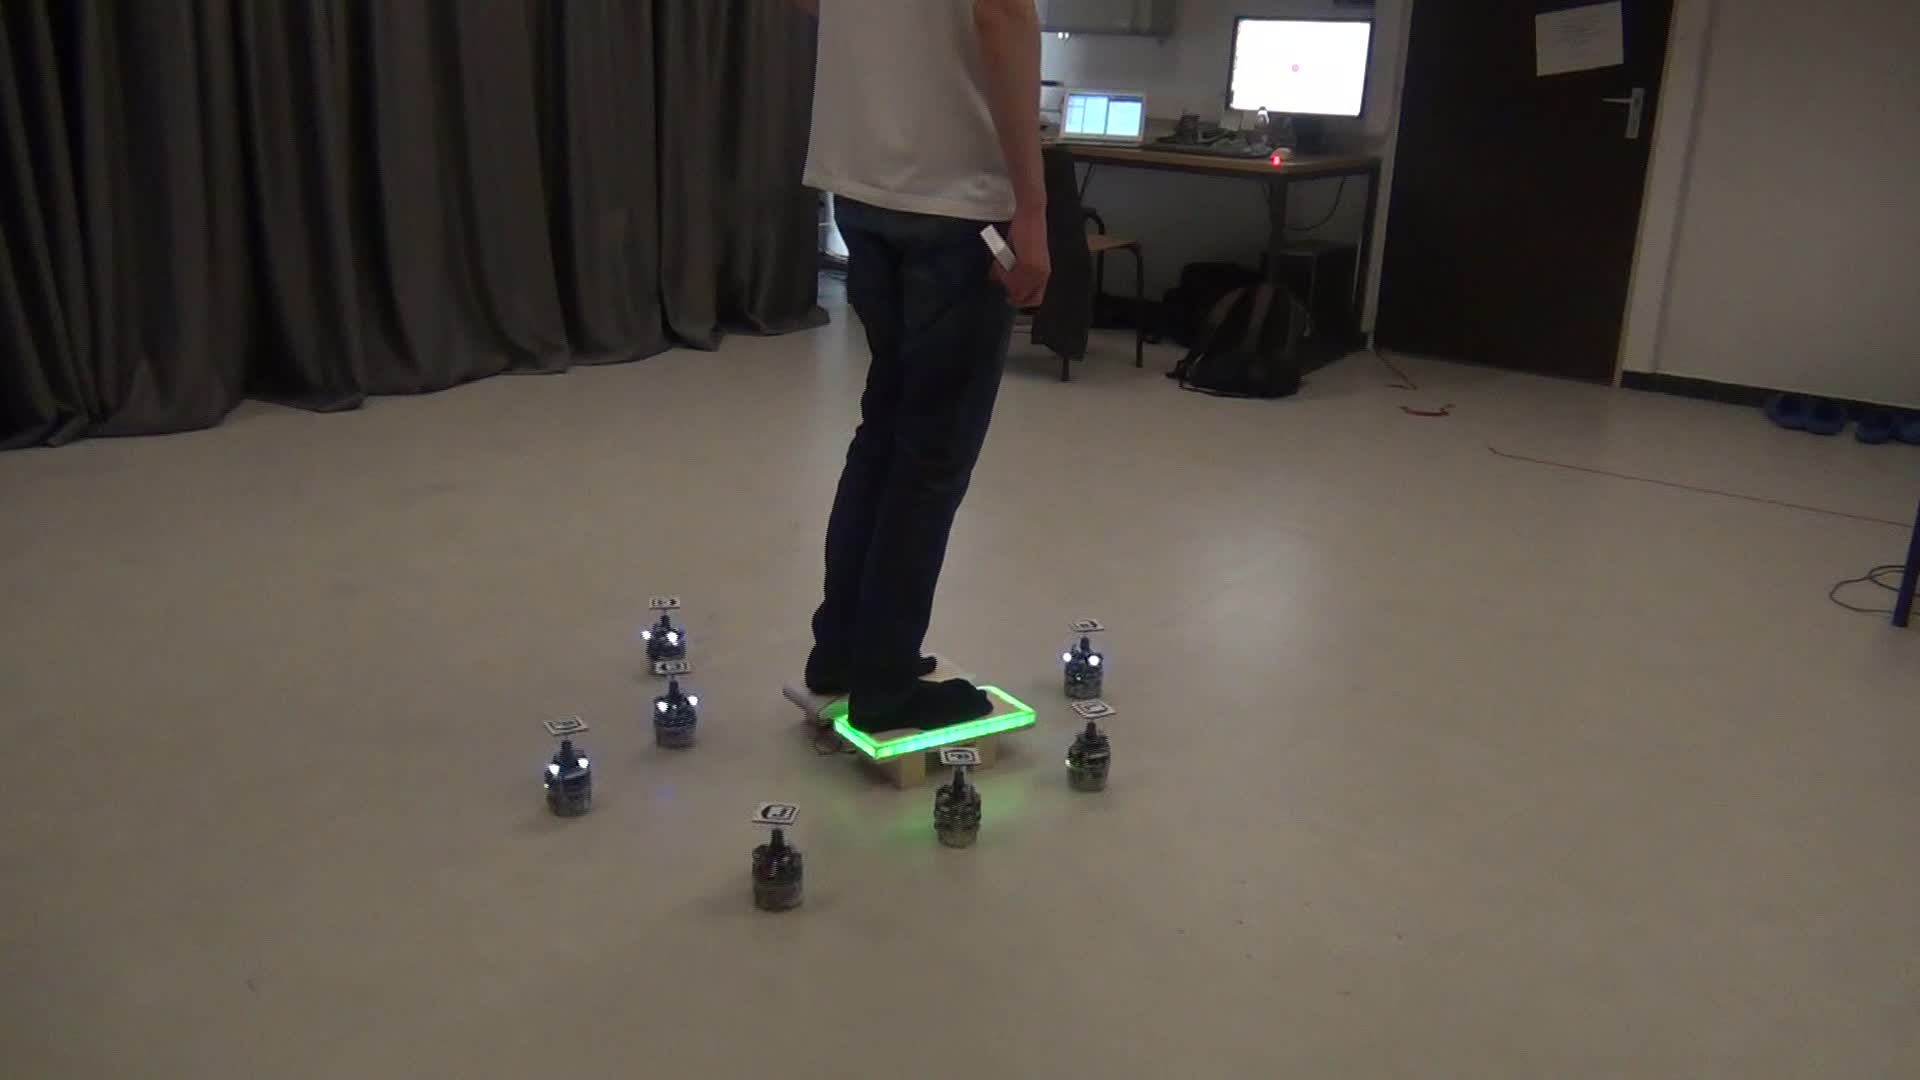
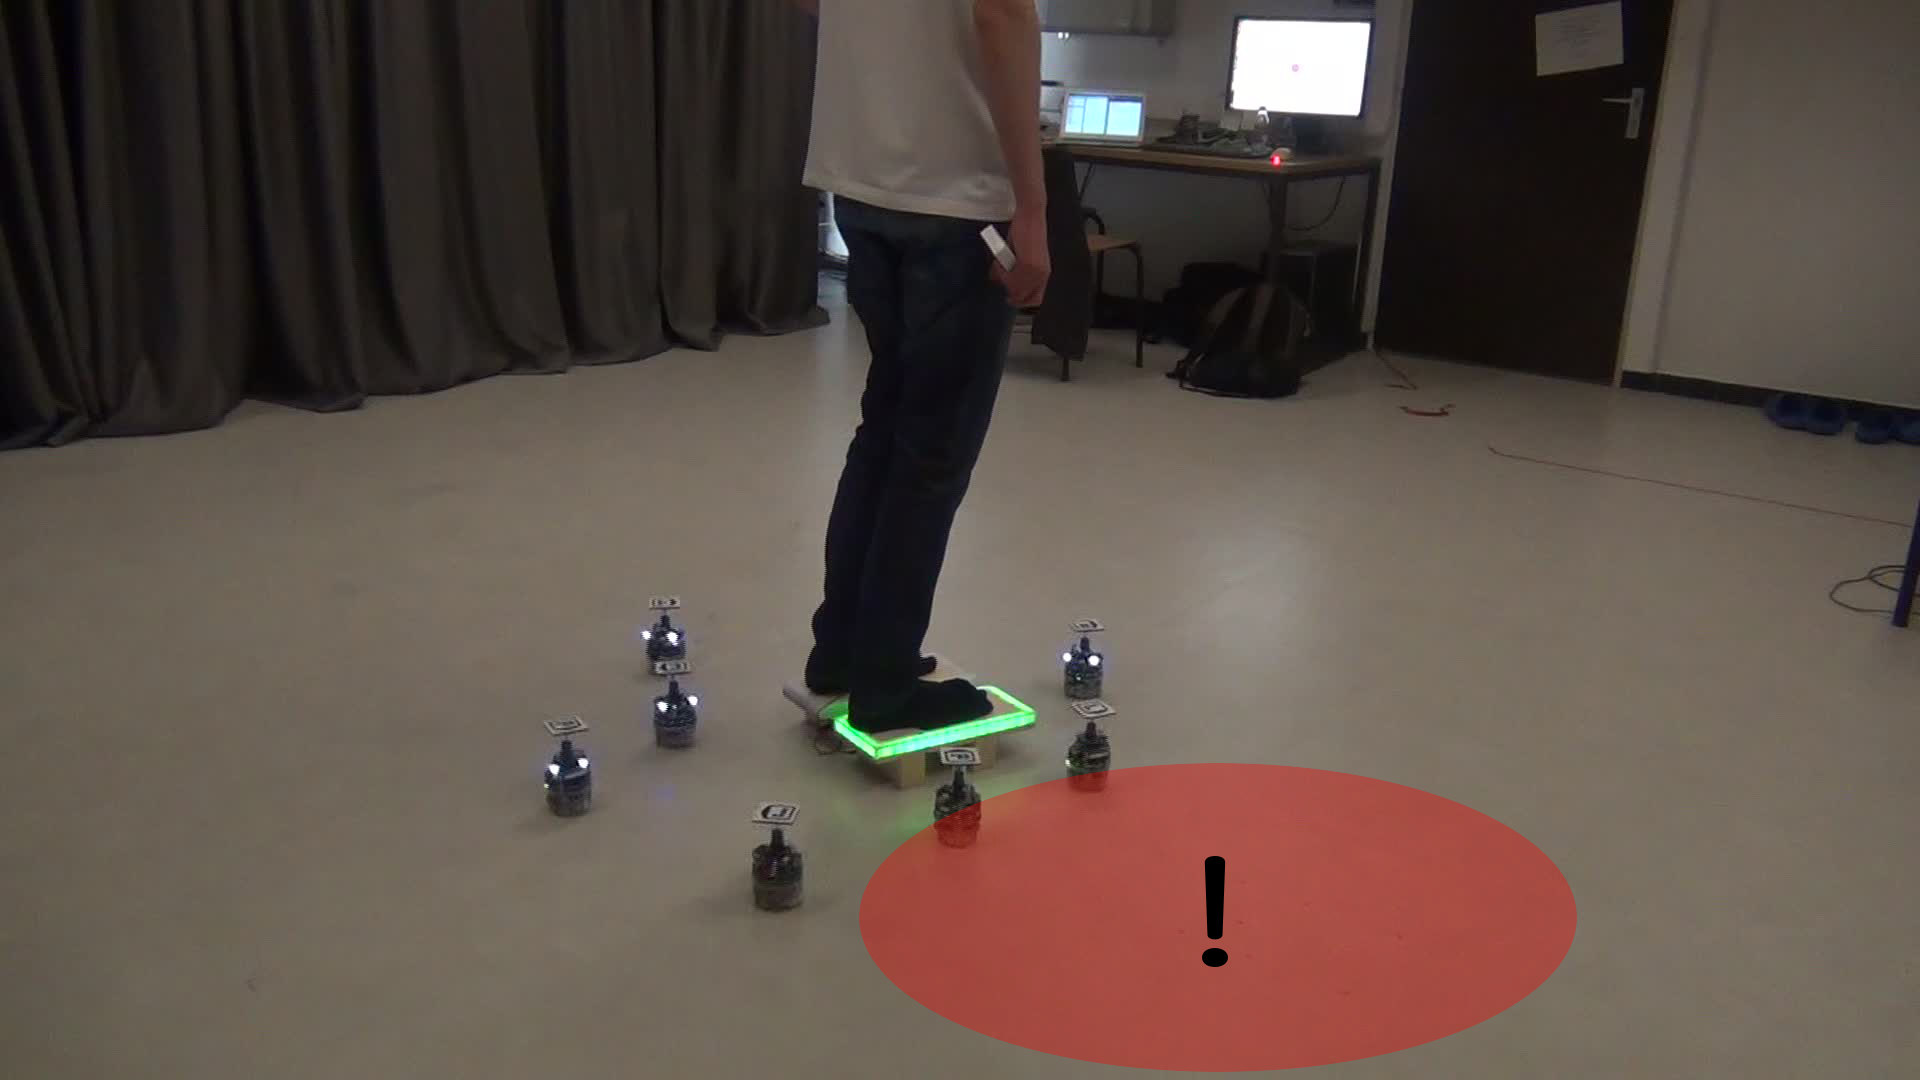
Text update: chap. 4 and 5.

Changed region(s): [[0.4375, 0.7028, 0.8438, 1.0]]

diff --git a/Thesis Document/main.tex b/Thesis Document/main.tex
@@ -1285,7 +1285,7 @@ In this chapter, we introduce the different experiments we conducted with the re
 			
 				\begin{figure}[!htp]
 					\includegraphics[width=\textwidth]{../MATLAB/boxplot_random_distance.png}
-					\caption{The distance error for a random starting configuration}{On this figure, we show the evolution of the average distance error through boxplots. It is an average on 10 experiments with real robots. The initial positions of all the robots are randomly selected. We observe that the behaviour of the swarm tends to lower the error measure. The variance of the values distribution is very low (0.0087 on average). A boxplot is a way of representing the distribution of a group of values. Each box corresponds to one group of values. On each box, one can see the median (the red line) of the distribution. The blue box is the interval between the first quartile and the third quartile: the interquartile range (IQR). The dashed black line is the interval of all the non outlier points. The upper whisker (the upper end of the black line) is the highest datum still within 1.5 IQR of the upper quartile. The lower whisker is the lowest datum still within 1.5 IQR of the lower quartile. Any point above the upper whisker or below the lower whisker is called outlier.}
+					\caption{The distance error for a random starting configuration}{On this figure, we show the evolution of the average distance error through boxplots. It is an average on 10 experiments with real robots. The initial positions of all the robots are randomly selected. We observe that the behaviour of the swarm tends to lower the error measure. The variance of the values distribution is very low (0.0087 on average). A boxplot is a way of representing the distribution of a group of values. Each box corresponds to one group of values. On each box, one can see the median (the red line) of the distribution. The blue box is the interval between the first quartile and the third quartile: the interquartile range (IQR). The dashed black line is the interval of all the non outlier points. The upper whisker (the upper end of the black line) is the highest datum still within 1.5 IQR of the upper quartile \citep{wiki:003}. The lower whisker is the lowest datum still within 1.5 IQR of the lower quartile. Any point above the upper whisker or below the lower whisker is called outlier.}
 					\label{fig:boxplot_random_distance}
 				\end{figure}
 			
@@ -1311,7 +1311,7 @@ In this chapter, we introduce the different experiments we conducted with the re
 					\label{fig:boxplot_geo_density}
 				\end{figure}
 				
-				As the values are not completely stabilising for the specific starting configuration, it was interesting to see what was the evolution of the error for a longer experiment. We thus launched one experiment of 9 minutes with the specific starting configuration. Figure \ref{fig:geolong_distance} and \ref{fig:geolong_density} show the evolution of the error over time. The two figures show a global decrease of the error value. However, the distance error on Figure \ref{fig:geolong_distance} has a more monotonous evolution than the density one. The latter undergoes an augmentation around 3 minutes. During the first 180 seconds, the two evolutions correspond to what was observed in figures \ref{fig:boxplot_geo_distance} and \ref{fig:boxplot_geo_density}. The two series of values tend to stabilise at 0.8. Figure \ref{fig:geolong_final_state} shows the final state of the swarm at the end of the experiment. The robots are forming an acceptable circular shield around the human. One can conclude that 0.8 is a nice value for the error measure. The value 0.8 will thus be used as threshold of quality for the time metric.
+				As the values are not completely stabilising for the specific starting configuration, it was interesting to see what was the evolution of the error for a longer experiment. We thus launched one experiment of 9 minutes with the specific starting configuration. Figure \ref{fig:geolong} (a) and \ref{fig:geolong} (b) show the evolution of the error over time. The two figures show a global decrease of the error value. However, the distance error on Figure \ref{fig:geolong} (a) has a more monotonous evolution than the density one. The latter undergoes an augmentation around 3 minutes. During the first 180 seconds, the two evolutions correspond to what was observed in figures \ref{fig:boxplot_geo_distance} and \ref{fig:boxplot_geo_density}. The two series of values tend to stabilise at 0.8. Figure \ref{fig:geolong} (c) shows the final state of the swarm at the end of the experiment. The robots are forming an acceptable circular shield around the human. One can conclude that 0.8 is a nice value for the error measure. The value 0.8 will thus be used as threshold of quality for the time metric.
 				
 %				\begin{figure}[!htp]
 %					\includegraphics[width=\textwidth]{../MATLAB/boxplot_geolong_distance.png}
@@ -1345,6 +1345,7 @@ In this chapter, we introduce the different experiments we conducted with the re
 					\center (c)
 					
 					\caption{The long experiment for the specific starting configuration}{On this figure, we show the evolution of the distance error (a) and the density error (b) for one run of the experiment. The experiment lasted 9 minutes. One can see a global decrease in the two graphs showing that the behaviour tends to create a circle that presents good characteristics for our application. On (b) one can observe an augmentation around 200 seconds. The video from the experiment showed that the robots moved slightly to the right of the shoes, putting more space between the robots on the left. The robots returned to their correct position afterwards, as the graph suggests. (c) depicts the final state of the 9-minutes experiment using the specific configuration as starting configuration. It corresponds to a value of 0.8 for the two error measures. We defined this value as an acceptable quality.}
+					\label{fig:geolong}
 				\end{figure}
 				
 				If we use a threshold value of 0.8 for the quality measure, we observe a great difference between the random and specific configuration in the time it takes for the error measure to cross the threshold. Since for the distance and density metrics the best alternative was the random start configuration, it is logical that the alternative taking the less amount of time to cross the threshold of 0.8 is the random alternative. We take the median as reference. If the configuration is random, the swarm takes a few seconds on average to cross the threshold. On the other side, for the specific configuration, the swarm takes approximately 1min30s to do the same for the density metric, and 30 seconds for the distance metric.
@@ -1436,7 +1437,7 @@ In this chapter, we introduce the different experiments we conducted with the re
 				\end{minipage}
 				
 				
-				\caption{I'm fabulous}{Captured from the video of the experiment.}
+				\caption{I'm fabulous}{Captured from the video of the experiment. The virtual dangerous area is added as an overlay as a red disc.}
 				\label{fig:demo_pictures}
 			\end{figure}
 			
@@ -1457,7 +1458,10 @@ In this chapter, we introduce the different experiments we conducted with the re
 	
 	In this chapter, we express our conclusions on our solution. The project followed a standard process. First, meetings were organised to capture the requirements of the final solution, the idea behind the project. In the weeks that followed, we came up with a design that was meeting the first requirements and heading in the right direction. Once the design was accepted, the implementation could begin. The implementation consisted in a trial and error process with a lot of debugging. The controller we implemented was incrementally updated and tested, first in the simulator then on the real robots. At the end, when we were only changing the details of the solution, the tests were only made on the real robots. In the meantime, the hardware needed to perform the experiment was built. Once the current solution was apparently meeting the initial expectations, the writing of the report started. The experiments evaluating the behaviour of the swarm with defined metrics started at the same time (see Chapter \ref{chap:experiments}). Afterwards came the analysis of the results.
 	
-	 I've done this and this for the solution (the solution is composed of...). It works.
+	The idea behind the project was to create a new kind of protection with the expertise in swarm robotics we have in the laboratory. We decided to use the E-pucks \citep{mondada2009puck} to form a swarm encircling a human. The swarm is thus augmenting the capabilities of the human. He/she is able to \enquote{see} dangers that one usually cannot see. For this to happen, we implemented a controller for the individual robots composing the swarm. The controller is based on the principles of virtual physics and pattern formation. We had to think about how the robots would detect the human. The decision was made to build a portable device for this purpose. We built shoes with coloured LEDs that the robots can detect. Our solution was used in proof-of-concept experiment that yielded good results.
+	 
+	 
+	I've done this and this for the solution (the solution is composed of...). It works.
 
 	\paragraph{Future Works}
 	[The future works that would be interesting from my point of view.]
@@ -1674,6 +1678,14 @@ In this chapter, we introduce the different experiments we conducted with the re
    year = "2015",
    url = "https://en.wikipedia.org/w/index.php?title=Walking&oldid=671922191",
    note = "[Online; accessed 1-August-2015]"
+ }
+ 
+ @misc{ wiki:003,
+   author = "Wikipedia",
+   title = "Box plot --- Wikipedia{,} The Free Encyclopedia",
+   year = "2015",
+   url = "https://en.wikipedia.org/w/index.php?title=Box_plot&oldid=669188116",
+   note = "[Online; accessed 5-August-2015]"
  }
  
  @article{khatib1986real,
